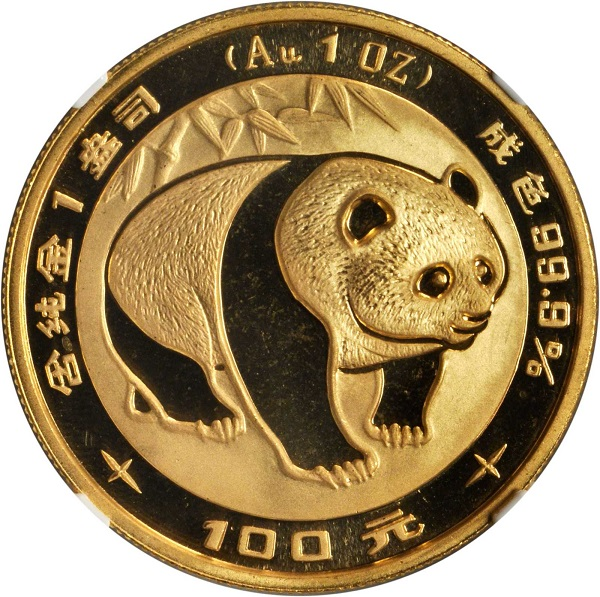
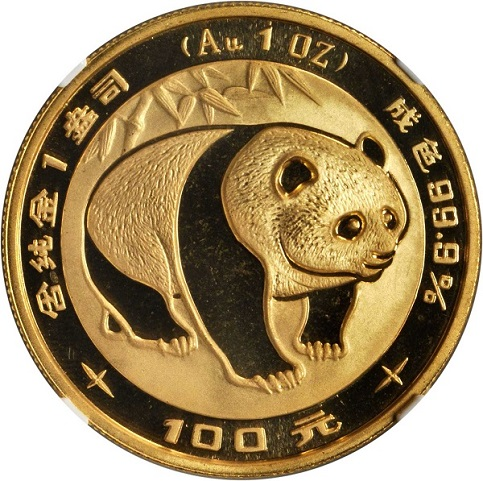
Add files via upload

diff --git a/index.html b/index.html
@@ -135,7 +135,7 @@
                     <p class="lead">We have passion in creating the most safe, authentic, and professional platform for our costomers to trade freely while feasting insurance and safety. </p>
                 </div>
                 <div class="col-lg-5 col-sm-pull-6  col-sm-6">
-                    <img class="img-responsive" src="img/pandacoin.jpg" alt="">
+                    <img class="img-responsive" src="img/九华山金银套正面.jpg" alt="">
                 </div>
             </div>
 
@@ -165,7 +165,9 @@
                     <h2 class="section-heading slide">Fastest information <br> </h2>
                     <p class="lead">newest market information, most convinent trade methods, most professional platform </p>
                     <p class="lead">One of the finest known examples of the 1794 Flowing Hair silver dollar brought $2.82 million at Stack’s Bowers Galleries Aug. 3 auction, leading the coin auctions at the American Numismatic Association World’s Fair of Money in Denver. Meanwhile, two very different cents, both fresh to the market, topped bidding at Heritage’s official ANA auctions.</p>
-                    <img class="img-responsive" src="img/southernskycoin.jpg" alt="southernskycoin">
+                    <div class="col-lg-6 col-lg-offset-3">
+                        <img class="img-responsive" src="img/southernskycoin.jpg" alt="southernskycoin">
+                    </div>
                 </div>
                 
         </div>
@@ -177,7 +179,9 @@
                     <h2 class="section-heading">Fastest information <br> </h2>
                     <p class="lead">newest market information, most convinent trade methods, most professional platform </p>
                     <p class="lead">One of the finest known examples of the 1794 Flowing Hair silver dollar brought $2.82 million at Stack’s Bowers Galleries Aug. 3 auction, leading the coin auctions at the American Numismatic Association World’s Fair of Money in Denver. Meanwhile, two very different cents, both fresh to the market, topped bidding at Heritage’s official ANA auctions.</p>
-                    <img class="img-responsive" src="img/1983panda.jpg" alt="1983panda">
+                    <div class="col-lg-6 col-lg-offset-3">
+                        <img class="img-responsive" src="img/1983panda.jpg" alt="1983panda">
+                    </div>
                 </div>
                
         </div>
@@ -189,7 +193,9 @@
                     <h2 class="section-heading">Fastest information <br> </h2>
                     <p class="lead">newest market information, most convinent trade methods, most professional platform </p>
                     <p class="lead">One of the finest known examples of the 1794 Flowing Hair silver dollar brought $2.82 million at Stack’s Bowers Galleries Aug. 3 auction, leading the coin auctions at the American Numismatic Association World’s Fair of Money in Denver. Meanwhile, two very different cents, both fresh to the market, topped bidding at Heritage’s official ANA auctions.</p>
-                    <img class="img-responsive" src="img/kangaroo.jpg" alt="kangaroo">
+                    <div class="col-lg-6 col-lg-offset-3">
+                        <img class="img-responsive" src="img/kangaroo.jpg" alt="kangaroo">
+                    </div>
                 </div>
                 
         </div>
@@ -250,7 +256,9 @@
                     <h2 class="section-heading">Fastest information <br> </h2>
                     <p class="lead">newest market information, most convinent trade methods, most professional platform </p>
                     <p class="lead">One of the finest known examples of the 1794 Flowing Hair silver dollar brought $2.82 million at Stack’s Bowers Galleries Aug. 3 auction, leading the coin auctions at the American Numismatic Association World’s Fair of Money in Denver. Meanwhile, two very different cents, both fresh to the market, topped bidding at Heritage’s official ANA auctions.</p>
-                    <img class="img-responsive" src="img/1794-dollar-lead.jpg" alt="1794-dollar-lead">
+                    <div class="col-lg-6 col-lg-offset-3">
+                        <img class="img-responsive" src="img/青铜3组裸币金银套_04.jpg" alt="1794-dollar-lead">
+                    </div>
                 </div>
                 
         </div>
@@ -262,7 +270,9 @@
                     <h2 class="section-heading">Fastest information <br> </h2>
                     <p class="lead">newest market information, most convinent trade methods, most professional platform </p>
                     <p class="lead">One of the finest known examples of the 1794 Flowing Hair silver dollar brought $2.82 million at Stack’s Bowers Galleries Aug. 3 auction, leading the coin auctions at the American Numismatic Association World’s Fair of Money in Denver. Meanwhile, two very different cents, both fresh to the market, topped bidding at Heritage’s official ANA auctions.</p>
-                    <img class="img-responsive" src="img/1983panda.jpg" alt="1983panda">
+                    <div class="col-lg-6 col-lg-offset-3">
+                        <img class="img-responsive" src="img/青铜1组裸币金银套_02.jpg" alt="1983panda">
+                    </div>
                 </div>
 
         </div>
@@ -274,7 +284,9 @@
                     <h2 class="section-heading">Fastest information <br> </h2>
                     <p class="lead">newest market information, most convinent trade methods, most professional platform </p>
                     <p class="lead">One of the finest known examples of the 1794 Flowing Hair silver dollar brought $2.82 million at Stack’s Bowers Galleries Aug. 3 auction, leading the coin auctions at the American Numismatic Association World’s Fair of Money in Denver. Meanwhile, two very different cents, both fresh to the market, topped bidding at Heritage’s official ANA auctions.</p>
-                    <img class="img-responsive" src="img/kangaroo.jpg" alt="kangaroo">
+                    <div class="col-lg-6 col-lg-offset-3">
+                        <img class="img-responsive" src="img/五台山裸币金银套_02.jpg" alt="kangaroo">
+                    </div>
                 </div>
                
         </div>
